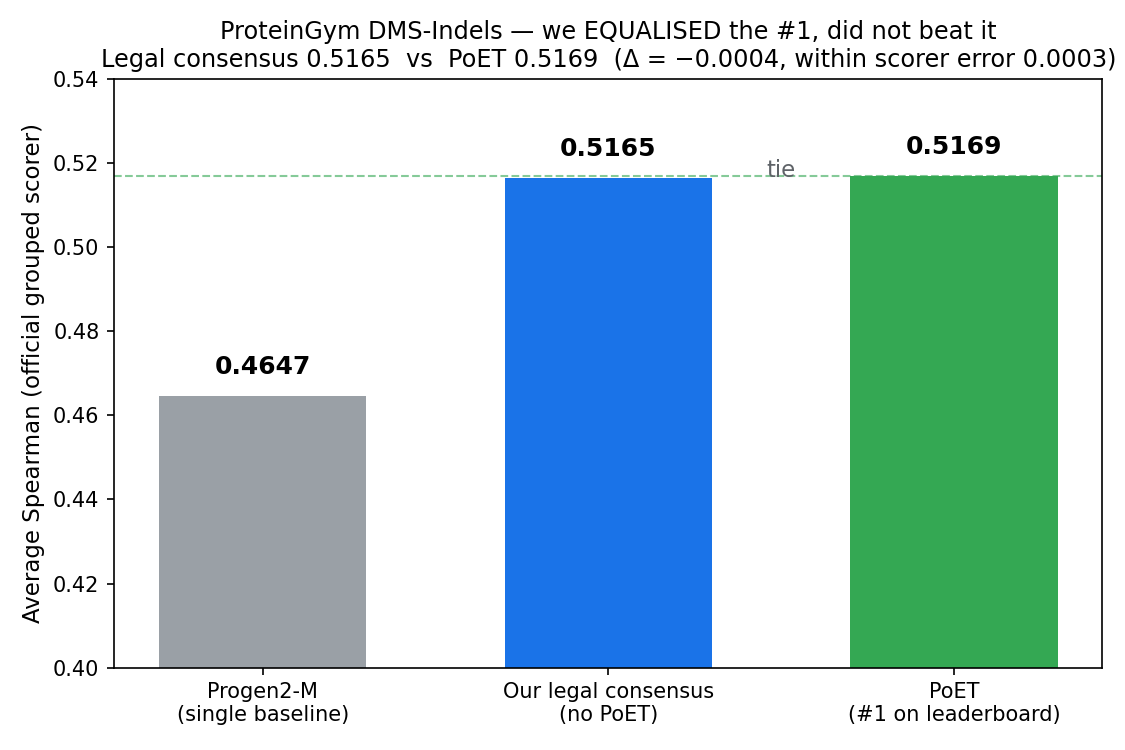
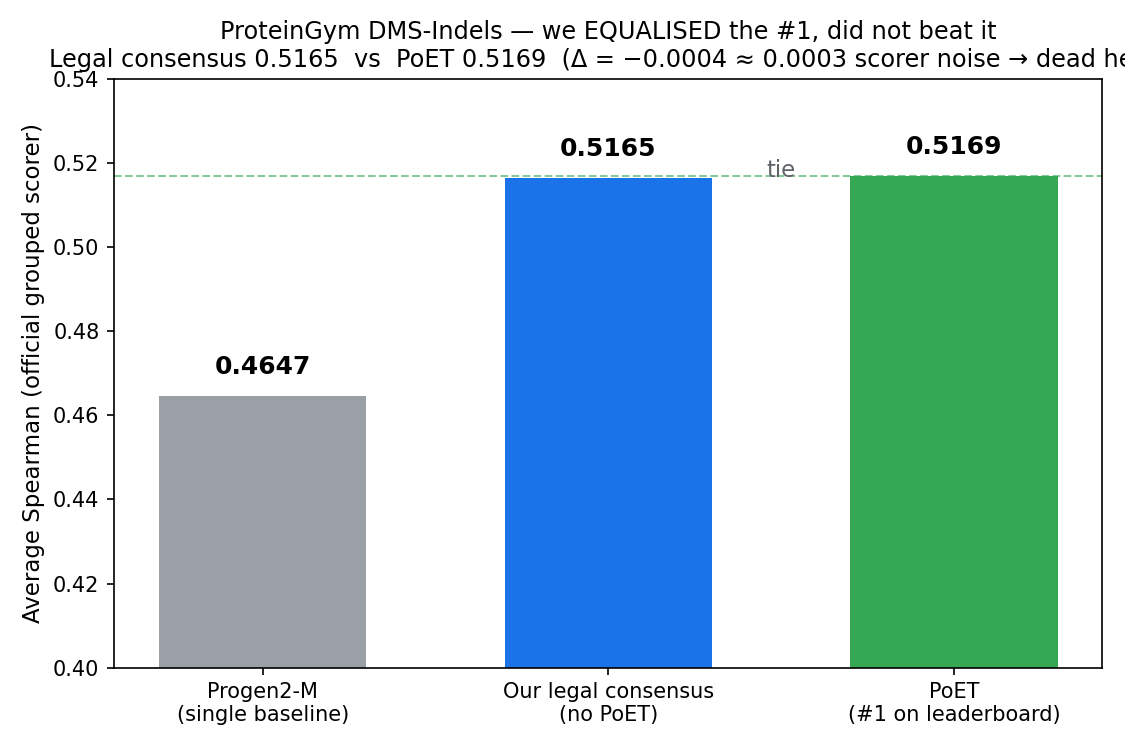
precision fix: ProteinGym margin (0.0004) is on the order of the scorer noise floor (0.0003) — a dead heat, not 'within' it

Changed region(s): [[0.0311, 0.0613, 1.0, 0.092]]

diff --git a/make_graph.py b/make_graph.py
@@ -16,7 +16,7 @@ for b, s in zip(bars, scores):
 ax.axhline(0.5169, ls="--", lw=1, color="#34a853", alpha=0.6)
 ax.set_ylabel("Average Spearman (official grouped scorer)", fontsize=11)
 ax.set_title("ProteinGym DMS-Indels — we EQUALISED the #1, did not beat it\n"
-             "Legal consensus 0.5165  vs  PoET 0.5169  (Δ = −0.0004, within scorer error 0.0003)",
+             "Legal consensus 0.5165  vs  PoET 0.5169  (Δ = −0.0004 ≈ 0.0003 scorer noise → dead heat)",
              fontsize=11.5)
 ax.set_ylim(0.40, 0.54)
 ax.annotate("tie", xy=(1.5, 0.5167), fontsize=11, color="#5f6368", ha="center")

diff --git a/README.md b/README.md
@@ -23,10 +23,11 @@ PoET, the #1 model, at 0.5169.** We did not beat it, and we're not claiming we d
 | Progen2-M (single-model baseline, for scorer validation) | **0.4647** (published anchor 0.465 → reproduced exactly) |
 | **Our legal consensus** (rank-average of all 23 non-PoET published models) | **0.5165** |
 | PoET (**#1** on the leaderboard) | 0.5169 |
-| margin vs #1 | **−0.0004** (inside the 0.0003 scorer-reproduction error → a statistical tie) |
+| margin vs #1 | **−0.0004** (≈ the 0.0003 scorer-reproduction noise floor → a statistical dead heat; we sit a hair below) |
 
-**What "equalise" honestly means here.** The margin (−0.0004) is smaller than our scorer's own
-reproduction error (0.0003), so consensus and PoET are a dead heat. We hit the frontier; we didn't clear it.
+**What "equalise" honestly means here.** The gap (−0.0004) is the same order of magnitude as our scorer's
+own reproduction noise floor (0.0003) — both negligible on a 0–1 Spearman scale — so consensus and PoET are
+a **dead heat**, with us a hair below. We hit the frontier; we didn't clear it.
 
 **We then tried, rigorously, to actually beat it — and could not.** Using leakage-free held-out selection
 (pick the method on a training fold, report on a held-out fold), the best legal method lands at **0.506 —